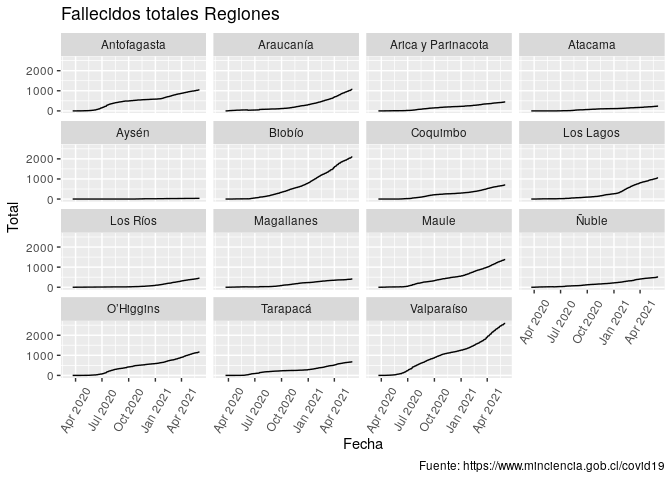
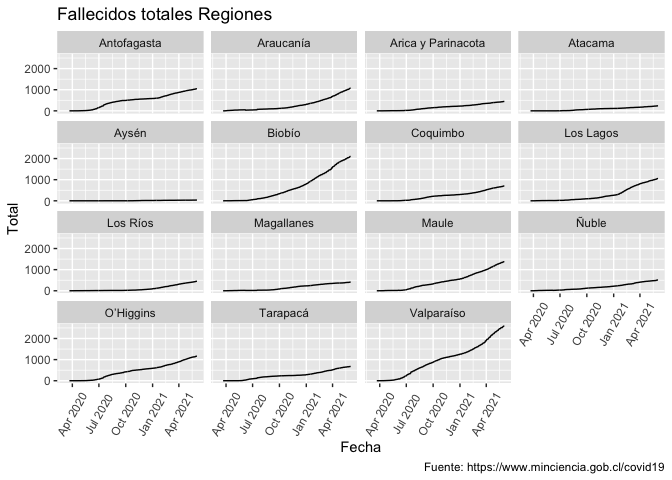
Re-build Rmarkdown files

diff --git a/README.md b/README.md
@@ -4,49 +4,14 @@
 Ejemplo de uso de datos de COVID recopilados por el Ministerio de
 Ciencia de Chile <https://www.minciencia.gob.cl/covid19>
 
-## Regionales Diarios
+## Visualización desde el comienzo de la pandemia
 
-``` r
-fn <- tempfile(fileext = ".csv")
-total_region <- download.file(
-  "https://github.com/MinCiencia/Datos-COVID19/raw/master/output/producto3/TotalesPorRegion_std.csv",
-  destfile = fn,
-  method = "wget",
-  timeout = 60
-)
-
-library(data.table)
-datos<- fread(fn)
-datos[, Fecha := as.IDate(Fecha)]
-```
-
-## Visualización
-
-``` r
-library(ggplot2)
-ggplot(
-  datos[Categoria == "Fallecidos totales" & !Region %in% c("Total", "Metropolitana")],
-  aes(x = Fecha, y = Total)
-  ) +
-  geom_line() +
-  facet_wrap(vars(Region)) +
-  labs(title = "Fallecidos totales", caption = "Fuente: https://www.minciencia.gob.cl/covid19")
-```
-
-    ## Warning: Removed 19 row(s) containing missing values (geom_path).
-
-![](README_files/figure-gfm/vis-serie-tiempo-region-1.png)<!-- -->
-
-``` r
-library(ggplot2)
-ggplot(
-  datos[Region == "Total" & !Categoria %in% c("Casos acumulados", "Casos confirmados recuperados", "Casos probables acumulados")],
-  aes(x = Fecha, y = Total)
-  ) +
-  geom_line(aes(color = Categoria)) +
-  labs(title = "Totales a nivel nacional", caption = "Fuente: https://www.minciencia.gob.cl/covid19")
-```
-
-    ## Warning: Removed 403 row(s) containing missing values (geom_path).
+![](README_files/figure-gfm/vis-serie-tiempo-region-1.png)<!-- -->![](README_files/figure-gfm/vis-serie-tiempo-region-2.png)<!-- -->
 
 ![](README_files/figure-gfm/vis-serie-tiempo-total-1.png)<!-- -->
+
+## Visualización últimos 7 días
+
+![](README_files/figure-gfm/vis-serie-tiempo-region-ult-7-dias-1.png)<!-- -->![](README_files/figure-gfm/vis-serie-tiempo-region-ult-7-dias-2.png)<!-- -->
+
+![](README_files/figure-gfm/vis-serie-tiempo-total-ult-7-dias-1.png)<!-- -->
